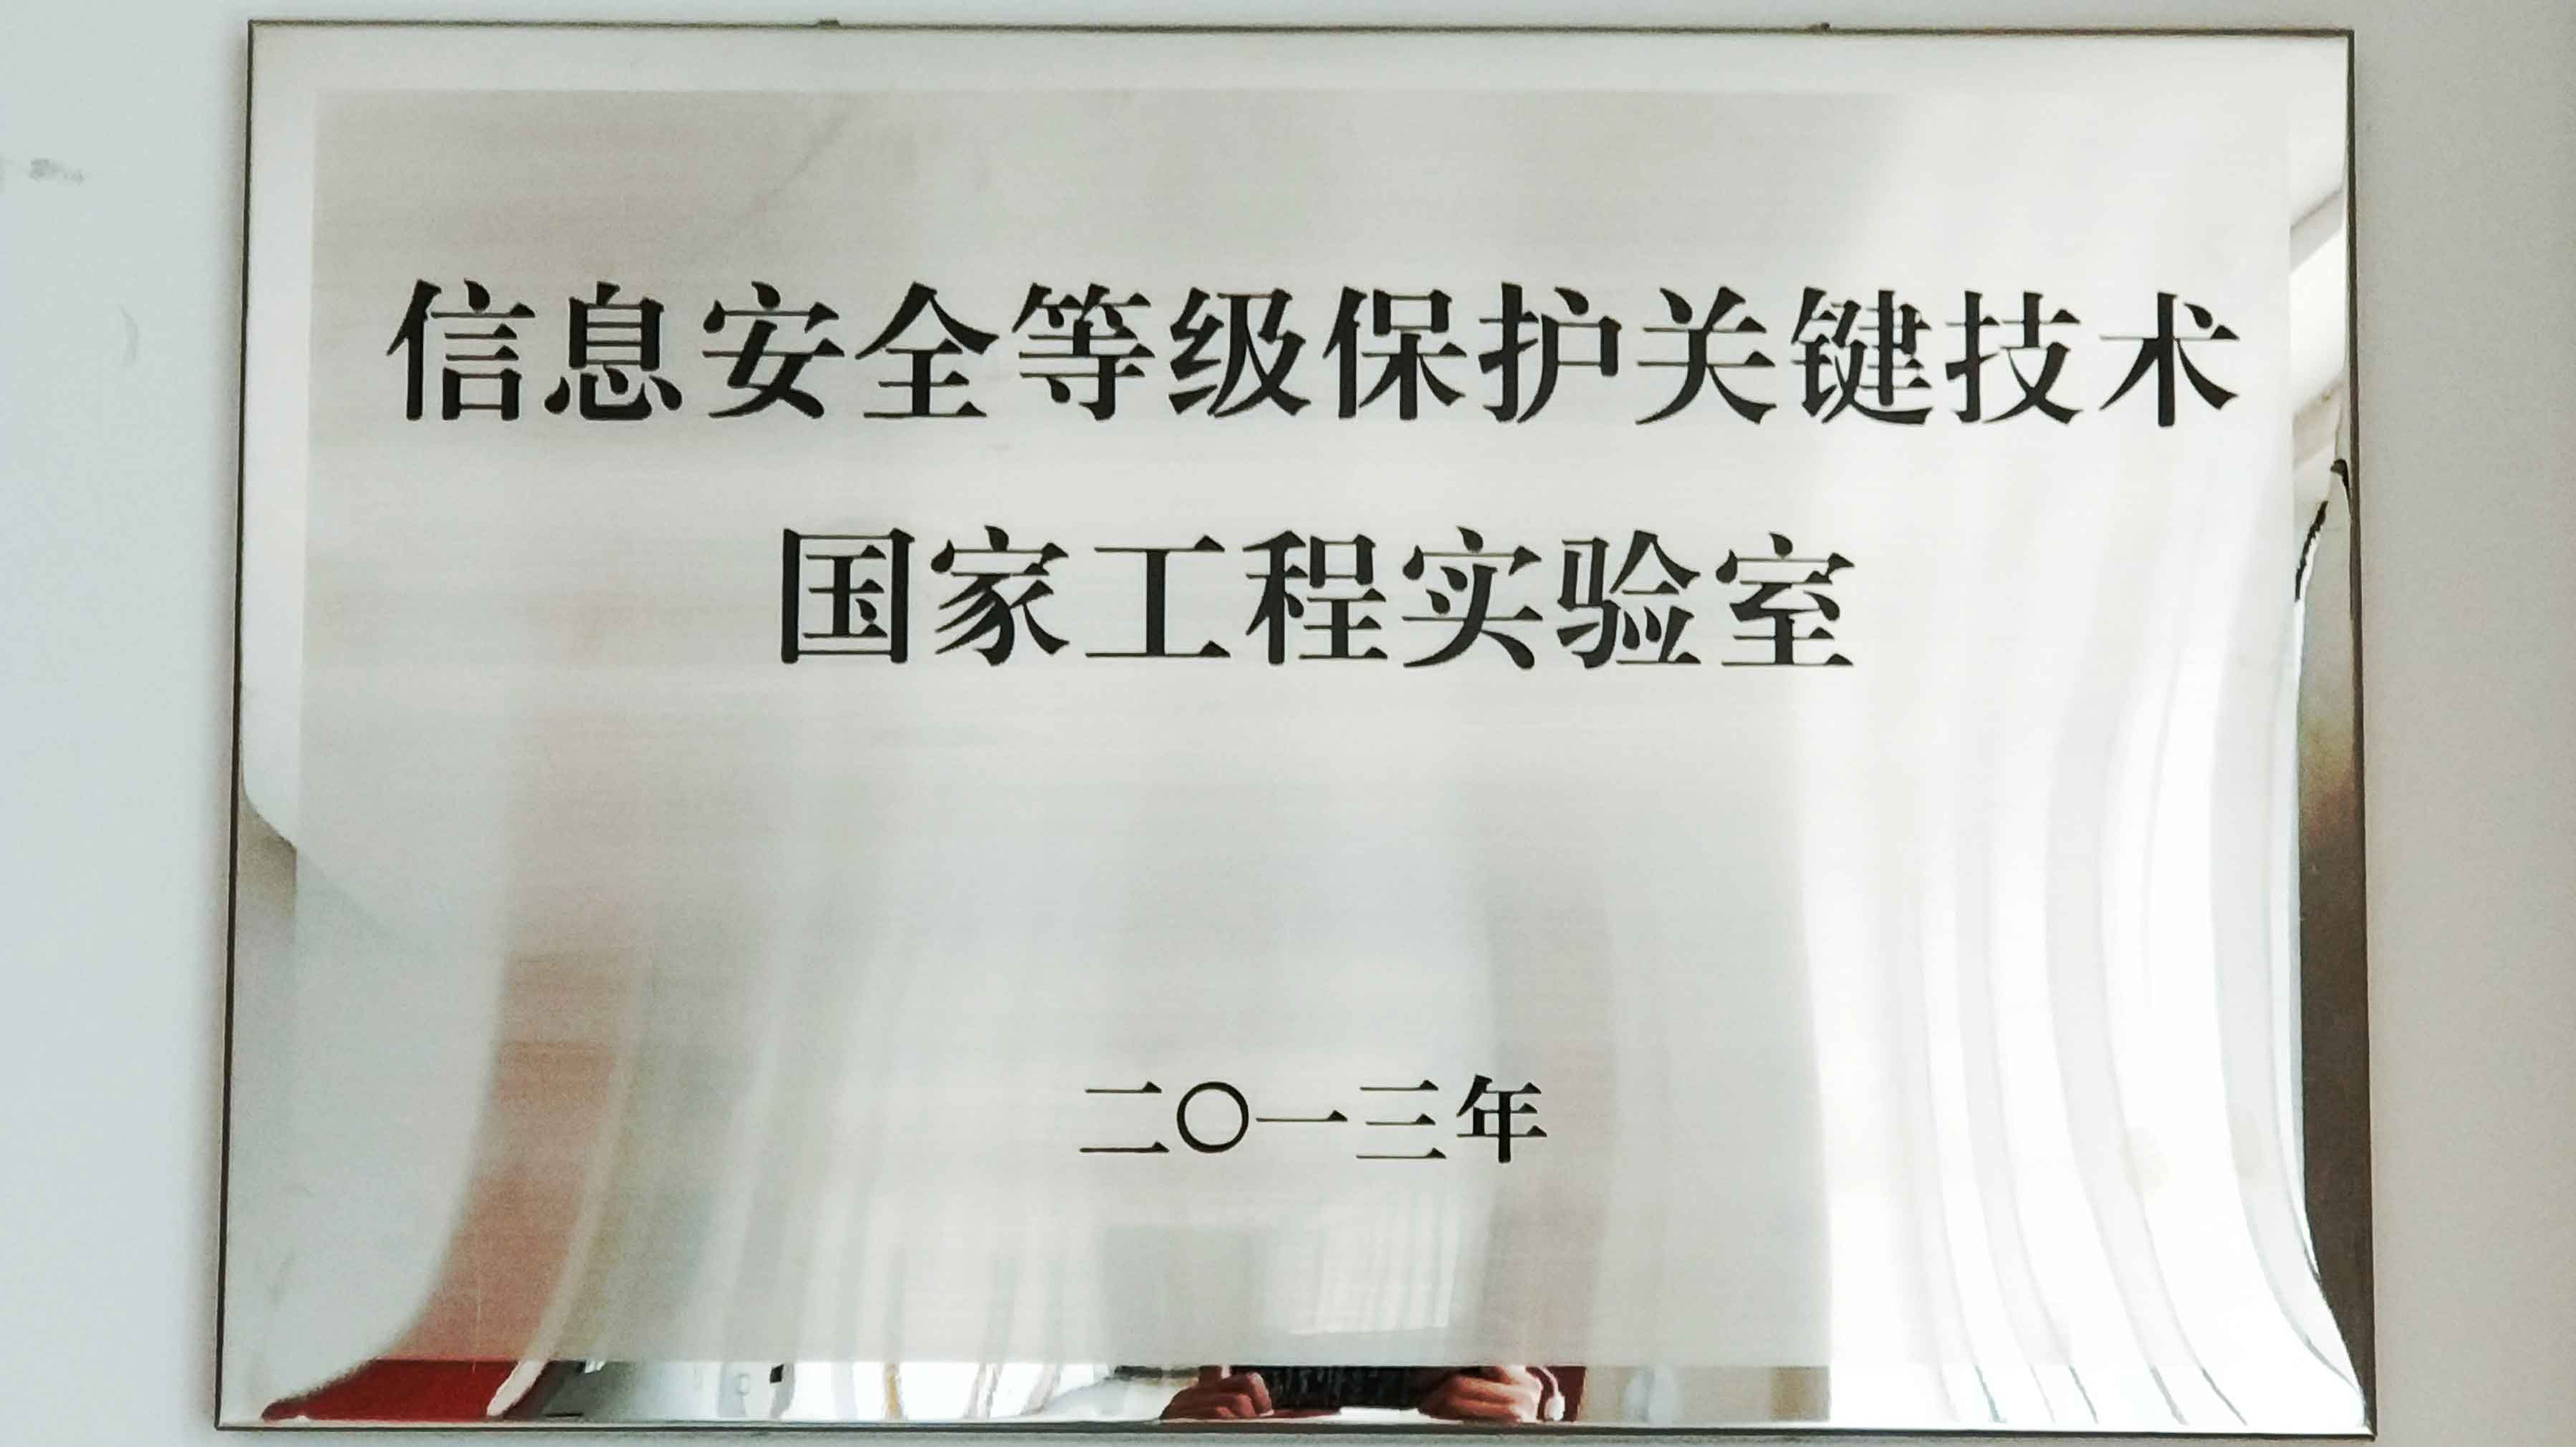
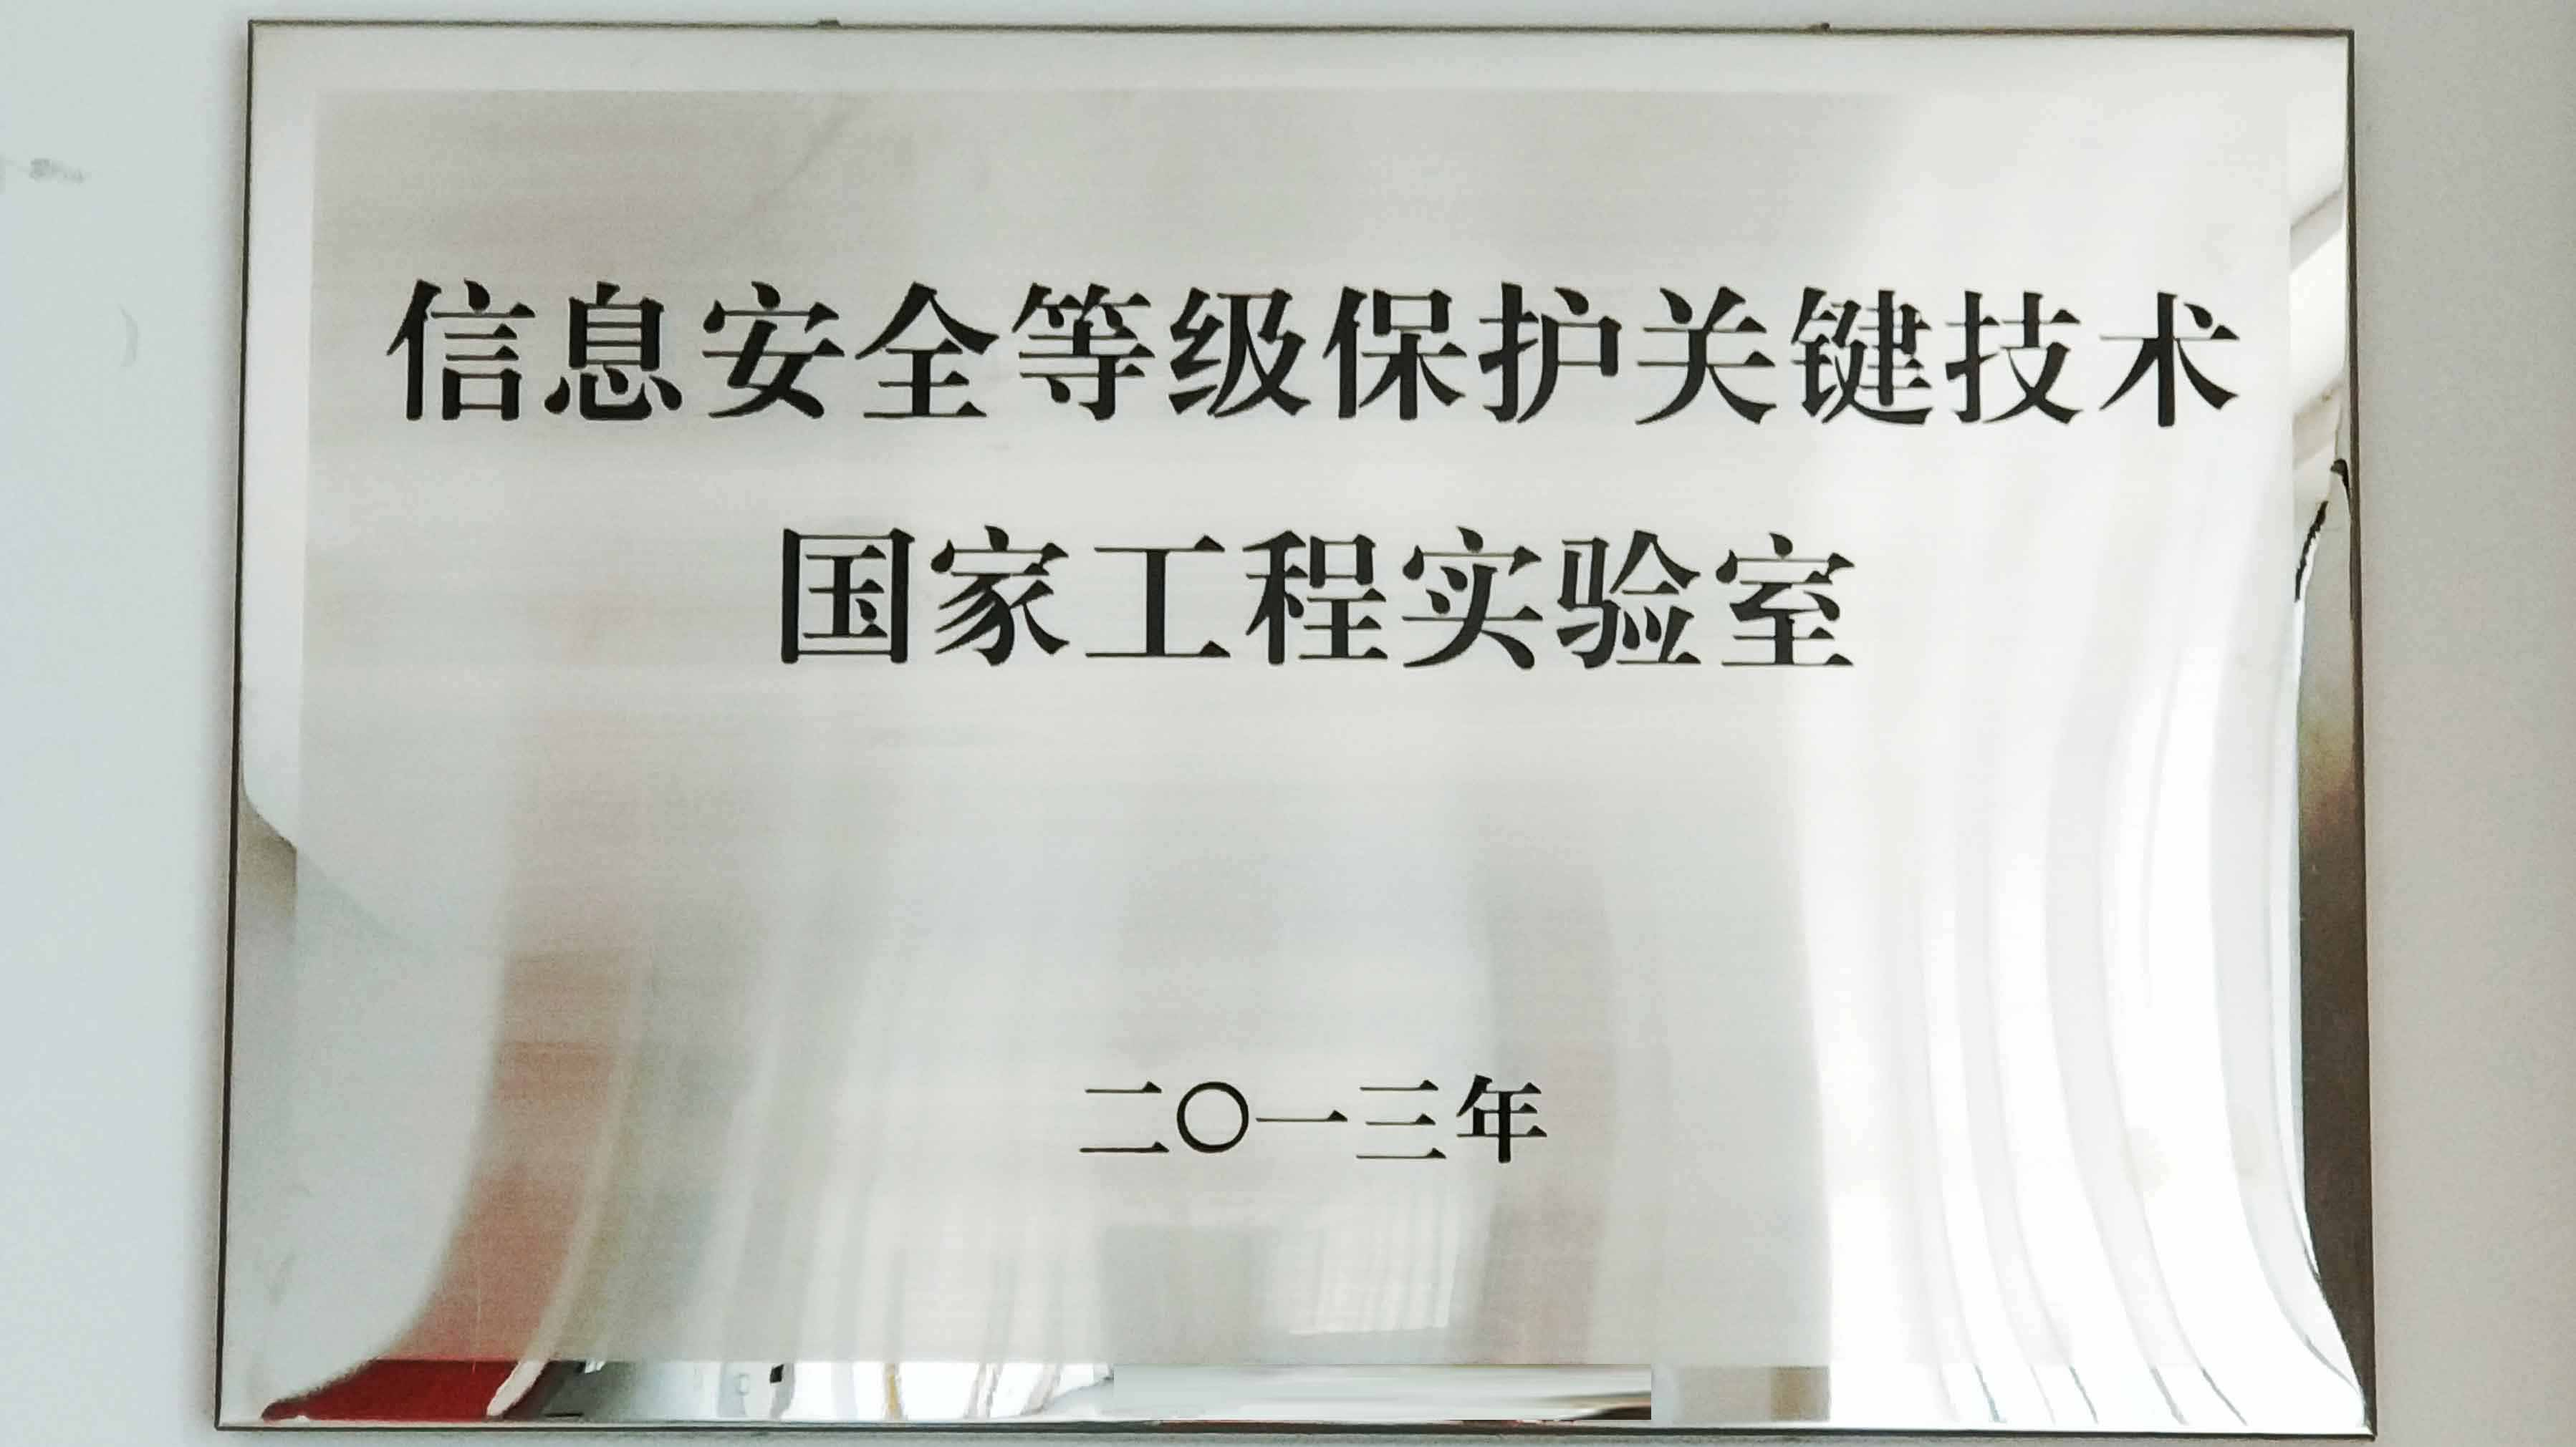
hotfix: 修复屏幕适配问题、拿掉一张老师不喜欢的图片

Changed region(s): [[0.436, 0.9352, 0.6541, 0.9975]]

diff --git a/src/page/components/photo.vue b/src/page/components/photo.vue
@@ -6,8 +6,8 @@
   el-carousel(:interval="4000" type="card" height="450px")
     el-carousel-item.photo-frame-item(key="1")
       img(src="../../assets/images/pic/1.jpg")
-    el-carousel-item.photo-frame-item(key="2" style="width: 800px")
-      img(src="../../assets/images/pic/2.jpg")
+    //- el-carousel-item.photo-frame-item(key="2")
+    //-   img(src="../../assets/images/pic/2.jpg")
     el-carousel-item.photo-frame-item(key="3")
       img(src="../../assets/images/pic/3.jpg")
     el-carousel-item.photo-frame-item(key="4")
@@ -21,21 +21,21 @@
 import {Carousel} from 'element-ui';
 import $ from 'jquery';
 import _ from 'lodash';
-
-let currentComponent;
-window.onresize = _.throttle(function () {
-    // currentComponent.init();
-    currentComponent.resizeChartsHeight();
-}, 500);
-
 export default {
   name: 'app',
   components: {
       carousel: Carousel
   },
-  created () {
-      currentComponent = this;
-      this.resizeChartsHeight();
+  props: {
+      resize: {
+          type: Number,
+          default: 0
+      }
+  },
+  watch: {
+      resize(resize) {
+          this.resizeChartsHeight();
+      }
   },
   mounted () {
       this.resizeChartsHeight();
@@ -55,12 +55,8 @@ export default {
                   link: '../../assets/images/3.png',
                   index: 2
               }
-          ],
-          resize: 0
+          ]
         }
-  },
-  mounted(){
-    this.resizeChartsHeight();
   },
   methods:{
       resizeChartsHeight() {
@@ -68,7 +64,6 @@ export default {
           let height = $(window).height();
           let width = $(window).width();
           $photo.height(height);
-          currentComponent.resize++;
       }
   }
 }

diff --git a/src/page/app.vue b/src/page/app.vue
@@ -1,5 +1,5 @@
 <template lang="jade">
-.show-app
+.show-app(id="show-app")
   .menu
     .photo(@click="isHome = true")
       img(src="/src/assets/images/favicon.png")
@@ -15,7 +15,7 @@
           img(src="/src/assets/images/home.png")
       .copyright Copyright © 2005-2018 DMS Lab
   iframe.iframe(v-show="iframeState && (!isHome)", id="show-iframe", frameBorder=0, name="showHere", scrolling=auto, src="")
-  photo(v-show="isHome")
+  photo(v-show="isHome", :resize="resize")
 </template>
 
 <style lang="less">
@@ -90,6 +90,7 @@ import _ from 'lodash';
 let currentComponent;
 window.onresize = _.throttle(function () {
     // currentComponent.init();
+    // window.location.reload();
     currentComponent.iframeHeightResize();
 }, 500);
 export default {
@@ -107,7 +108,8 @@ export default {
             link:'http://demo.yzlab.net:8090'
         }
       ],
-      isHome: true
+      isHome: true,
+      resize: 0
     }
   },
   mounted(){
@@ -121,6 +123,7 @@ export default {
         const deviceHeight = document.documentElement.clientHeight;
         oIframe.style.width = deviceWidth + 'px';
         oIframe.style.height = deviceHeight + 'px';
+        this.resize = this.resize + 1;
     },
     goBack(){
       this.goBackState = false;
